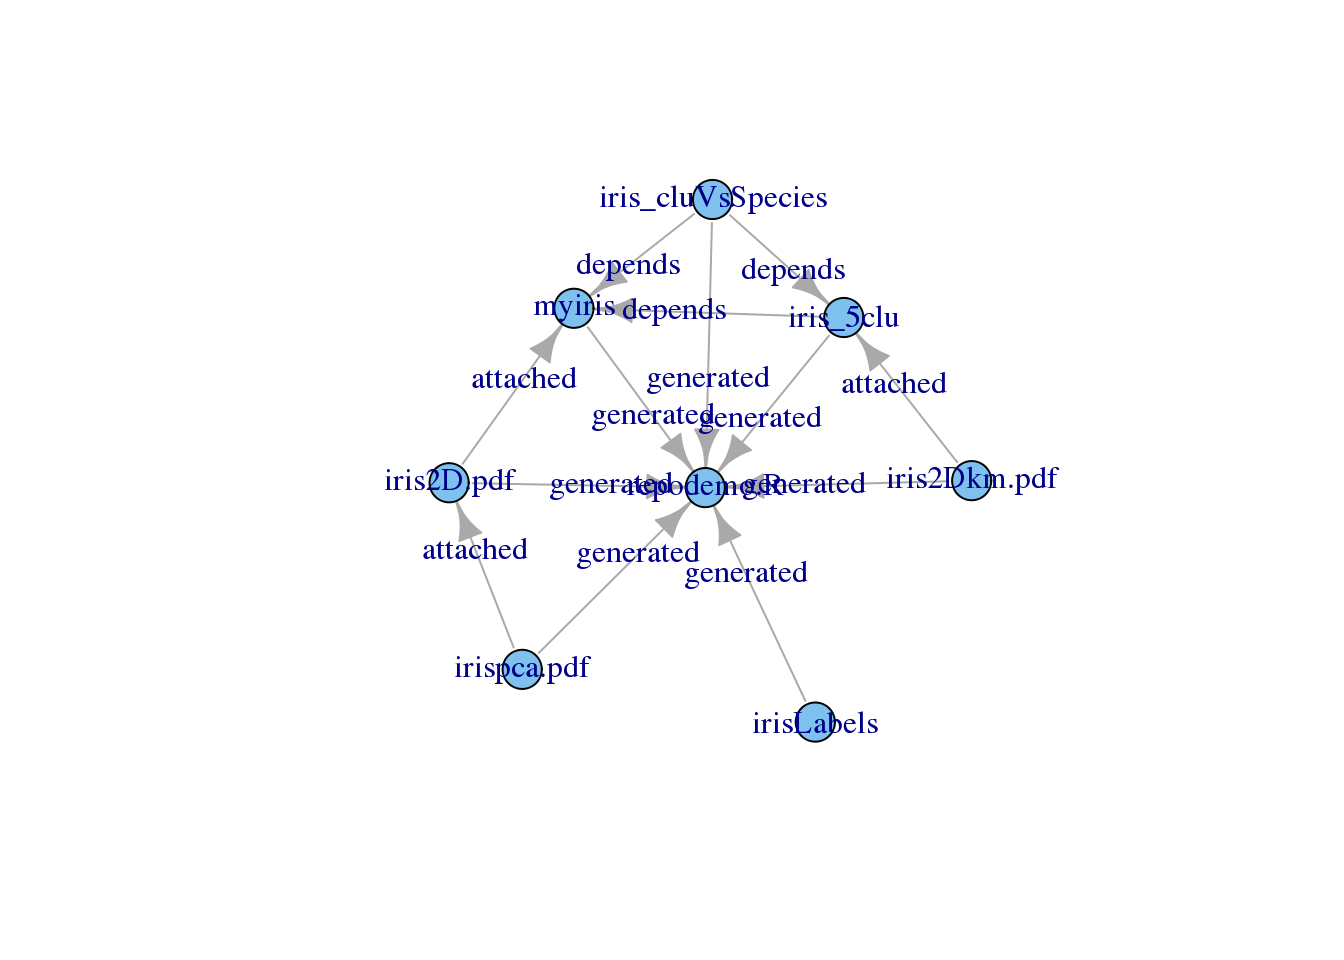
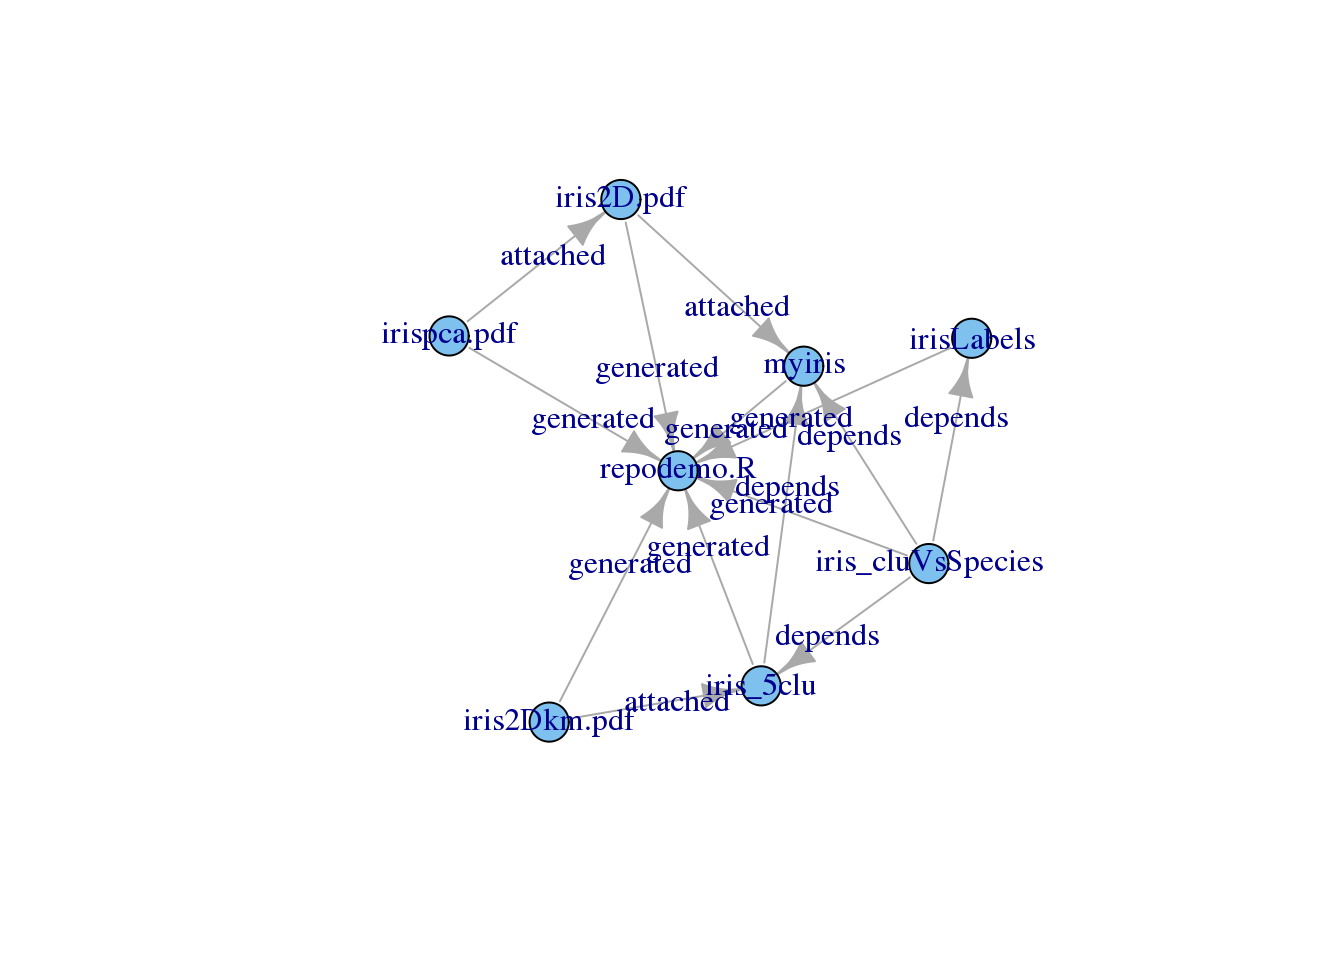
Fixed a missing dependency

Changed region(s): [[0.2812, 0.1875, 0.7812, 0.7812]]

diff --git a/index.html b/index.html
@@ -227,7 +227,7 @@ repo$put(res, &quot;iris_cluVsSpecies&quot;,
          paste(&quot;Contingency table of the kmeans clustering versus the&quot;,
                &quot;original labels of the Iris dataset.&quot;),
          c(&quot;result&quot;, &quot;iris&quot;,&quot;validation&quot;, &quot;clustering&quot;, &quot;repodemo&quot;, &quot;hide&quot;),
-         src, c(&quot;myiris&quot;, &quot;iris_5clu&quot;), T)</code></pre>
+         src, c(&quot;myiris&quot;, &quot;irisLabels&quot;, &quot;iris_5clu&quot;), T)</code></pre>
 </div>
 </div>
 <div id="looking-at-the-repository" class="section level2">
@@ -239,7 +239,7 @@ repo$put(res, &quot;iris_cluVsSpecies&quot;,
 <pre class="r"><code>repo$info()</code></pre>
 <pre><code>Root:            repodemo 
 Number of items: 7 
-Total size:      18.48 kB </code></pre>
+Total size:      18.47 kB </code></pre>
 </div>
 <div id="listing-items" class="section level3">
 <h3>Listing items</h3>
@@ -248,7 +248,7 @@ Total size:      18.48 kB </code></pre>
 <pre><code>         ID  Dims    Size
      myiris 150x4 1.82 kB
  irisLabels   150   124 B
-  iris_5clu   150   114 B</code></pre>
+  iris_5clu   150   115 B</code></pre>
 <p>As expected, hidden items are not shown. Use the following to make all the items appear:</p>
 <pre class="r"><code>print(repo, all=T)</code></pre>
 <pre><code>                ID  Dims    Size
@@ -256,27 +256,27 @@ Total size:      18.48 kB </code></pre>
         irisLabels   150   124 B
        @iris2D.pdf     - 5.84 kB
       @irispca.pdf     - 4.38 kB
-         iris_5clu   150   114 B
-     @iris2Dkm.pdf     - 6.02 kB
- iris_cluVsSpecies   3x5   180 B</code></pre>
+         iris_5clu   150   115 B
+     @iris2Dkm.pdf     - 6.01 kB
+ iris_cluVsSpecies   3x5   179 B</code></pre>
 <p>Items can also be listed selectively. With the following call, only items tagged with “clustering” will be shown:</p>
 <pre class="r"><code>print(repo, tags=&quot;clustering&quot;, all=T)</code></pre>
 <pre><code>                ID Dims    Size
-         iris_5clu  150   114 B
-     @iris2Dkm.pdf    - 6.02 kB
- iris_cluVsSpecies  3x5   180 B</code></pre>
+         iris_5clu  150   115 B
+     @iris2Dkm.pdf    - 6.01 kB
+ iris_cluVsSpecies  3x5   179 B</code></pre>
 <p>All attachments have the <em>attachment</em> tag, so they can be selectively visualized this way:</p>
 <pre class="r"><code>print(repo, tags=&quot;attachment&quot;, all=T)</code></pre>
 <pre><code>            ID Dims    Size
    @iris2D.pdf    - 5.84 kB
   @irispca.pdf    - 4.38 kB
- @iris2Dkm.pdf    - 6.02 kB</code></pre>
+ @iris2Dkm.pdf    - 6.01 kB</code></pre>
 <p>For the same reasons, one may want to show only hidden items:</p>
 <pre class="r"><code>print(repo, tags=&quot;hide&quot;, all=T)</code></pre>
 <pre><code>                      
 ID   iris_cluVsSpecies
 Dims               3x5
-Size             180 B</code></pre>
+Size             179 B</code></pre>
 <p>Finally, also the columns shown can be selected. Let’s show only the tags:</p>
 <pre class="r"><code>repo$print(show=&quot;t&quot;, all=T)</code></pre>
 <pre><code>                ID                                                 Tags
@@ -378,7 +378,7 @@ kable(depgraph)</code></pre>
 <tr class="odd">
 <td align="left">iris_cluVsSpecies</td>
 <td align="right">1</td>
-<td align="right">0</td>
+<td align="right">1</td>
 <td align="right">0</td>
 <td align="right">0</td>
 <td align="right">1</td>
@@ -417,7 +417,7 @@ kable(depgraph)</code></pre>
 Description:  A normalized version of the iris dataset coming with R. Normalization is made with the scale function with default parameters.
 Tags:         dataset, iris, repodemo
 Dimensions:   150x4
-Timestamp:    2015-07-05 02:00:04
+Timestamp:    2015-07-05 02:09:22
 Size on disk: 1.82 kB
 Provenance:   /home/users/napolitano/git/bbuck/repo/repodemo.R
 Attached to:  -
@@ -450,19 +450,19 @@ repo$put(kiris, &quot;iris_5clu&quot;,
 <pre><code>         ID  Dims    Size
      myiris 150x4 1.82 kB
  irisLabels   150   124 B
-  iris_5clu   150   114 B</code></pre>
+  iris_5clu   150   115 B</code></pre>
 <p>Except that <em>iris_5clu</em> is actually the new one (look at the description):</p>
 <pre class="r"><code>repo$info(&quot;iris_5clu&quot;)</code></pre>
 <pre><code>ID:           iris_5clu
 Description:  Kmeans clustering of the Iris data, k=5. Today&#39;s version!
 Tags:         metadata, iris, kmeans, clustering, repodemo
 Dimensions:   150
-Timestamp:    2015-07-05 02:00:05
-Size on disk: 114 B
+Timestamp:    2015-07-05 02:09:23
+Size on disk: 115 B
 Provenance:   /home/users/napolitano/git/bbuck/repo/repodemo.R
 Attached to:  -
 Stored in:    repodemo/ff/6d/ce/ff6dce2d056afd01f0e1f0b13bc0e295
-MD5 checksum: 9b1ca26e5ca042328ddfb7bdb83fb34d</code></pre>
+MD5 checksum: 8207a300ce071ab39bcc93b8381c716d</code></pre>
 <p>while the old one has been renamed and hidden:</p>
 <pre class="r"><code>repo$print(all=T)</code></pre>
 <pre><code>                ID  Dims    Size
@@ -470,22 +470,22 @@ MD5 checksum: 9b1ca26e5ca042328ddfb7bdb83fb34d</code></pre>
         irisLabels   150   124 B
        @iris2D.pdf     - 5.84 kB
       @irispca.pdf     - 4.38 kB
-       iris_5clu#1   150   114 B
-     @iris2Dkm.pdf     - 6.02 kB
- iris_cluVsSpecies   3x5   180 B
-         iris_5clu   150   114 B</code></pre>
+       iris_5clu#1   150   115 B
+     @iris2Dkm.pdf     - 6.01 kB
+ iris_cluVsSpecies   3x5   179 B
+         iris_5clu   150   115 B</code></pre>
 <p>However, it can be referred to as any other repo item:</p>
 <pre class="r"><code>repo$info(&quot;iris_5clu#1&quot;)</code></pre>
 <pre><code>ID:           iris_5clu#1
 Description:  Kmeans clustering of the Iris data, k=5.
 Tags:         metadata, iris, kmeans, clustering, repodemo, hide
 Dimensions:   150
-Timestamp:    2015-07-05 02:00:05
-Size on disk: 114 B
+Timestamp:    2015-07-05 02:09:23
+Size on disk: 115 B
 Provenance:   /home/users/napolitano/git/bbuck/repo/repodemo.R
 Attached to:  -
 Stored in:    repodemo/ff/6d/ce/ff6dce2d056afd01f0e1f0b13bc0e295
-MD5 checksum: 9b1ca26e5ca042328ddfb7bdb83fb34d</code></pre>
+MD5 checksum: 8207a300ce071ab39bcc93b8381c716d</code></pre>
 </div>
 <div id="stashing" class="section level3">
 <h3>Stashing</h3>
@@ -503,7 +503,7 @@ MD5 checksum: 9b1ca26e5ca042328ddfb7bdb83fb34d</code></pre>
 Description:  Stashed object
 Tags:         stash, hide
 Dimensions:   1
-Timestamp:    2015-07-05 02:00:06
+Timestamp:    2015-07-05 02:09:23
 Size on disk: 74 B
 Provenance:   /home/users/napolitano/git/bbuck/repo
 Attached to:  -
@@ -524,9 +524,9 @@ names(h)</code></pre>
 <pre class="r"><code>print(h$iris_cluVsSpecies())</code></pre>
 <pre><code>            kiris
               1  2  3  4  5
-  setosa      0 28  0 22  0
-  versicolor 29  0 19  0  2
-  virginica  21  0  2  0 27</code></pre>
+  setosa     34  0  0 16  0
+  versicolor  0 29  2  0 19
+  virginica   0 21 27  0  2</code></pre>
 <p>The <em>tag</em> method (not yet described) adds a tag to an item:</p>
 <pre class="r"><code>h$iris_cluVsSpecies(&quot;tag&quot;, &quot;onenewtag&quot;)
 h$iris_cluVsSpecies(&quot;info&quot;)</code></pre>
@@ -534,12 +534,12 @@ h$iris_cluVsSpecies(&quot;info&quot;)</code></pre>
 Description:  Contingency table of the kmeans clustering versus the original labels of the Iris dataset.
 Tags:         result, iris, validation, clustering, repodemo, hide, onenewtag
 Dimensions:   3x5
-Timestamp:    2015-07-05 02:00:06
-Size on disk: 180 B
+Timestamp:    2015-07-05 02:09:23
+Size on disk: 179 B
 Provenance:   /home/users/napolitano/git/bbuck/repo/repodemo.R
 Attached to:  -
 Stored in:    repodemo/71/f4/85/71f48579b98958bc63ab72b6b49d08b4
-MD5 checksum: 85a1953e4037fb7a7f519c0d674fe532</code></pre>
+MD5 checksum: 0ecffc77d3592a7e4170f1040f2c3c76</code></pre>
 <p>One may want to open a repo directly with:</p>
 <pre class="r"><code>h &lt;- repo_open(&quot;repodemo&quot;)$handlers()</code></pre>
 <p>In that case, the handler to the repo itself will come handy:</p>
@@ -547,7 +547,7 @@ MD5 checksum: 85a1953e4037fb7a7f519c0d674fe532</code></pre>
 <pre><code>         ID  Dims    Size
      myiris 150x4 1.82 kB
  irisLabels   150   124 B
-  iris_5clu   150   114 B</code></pre>
+  iris_5clu   150   115 B</code></pre>
 <p>If items are removed or added, you may want to refresh the handlers:</p>
 <pre class="r"><code>h &lt;- h$repo$handlers()</code></pre>
 </div>
